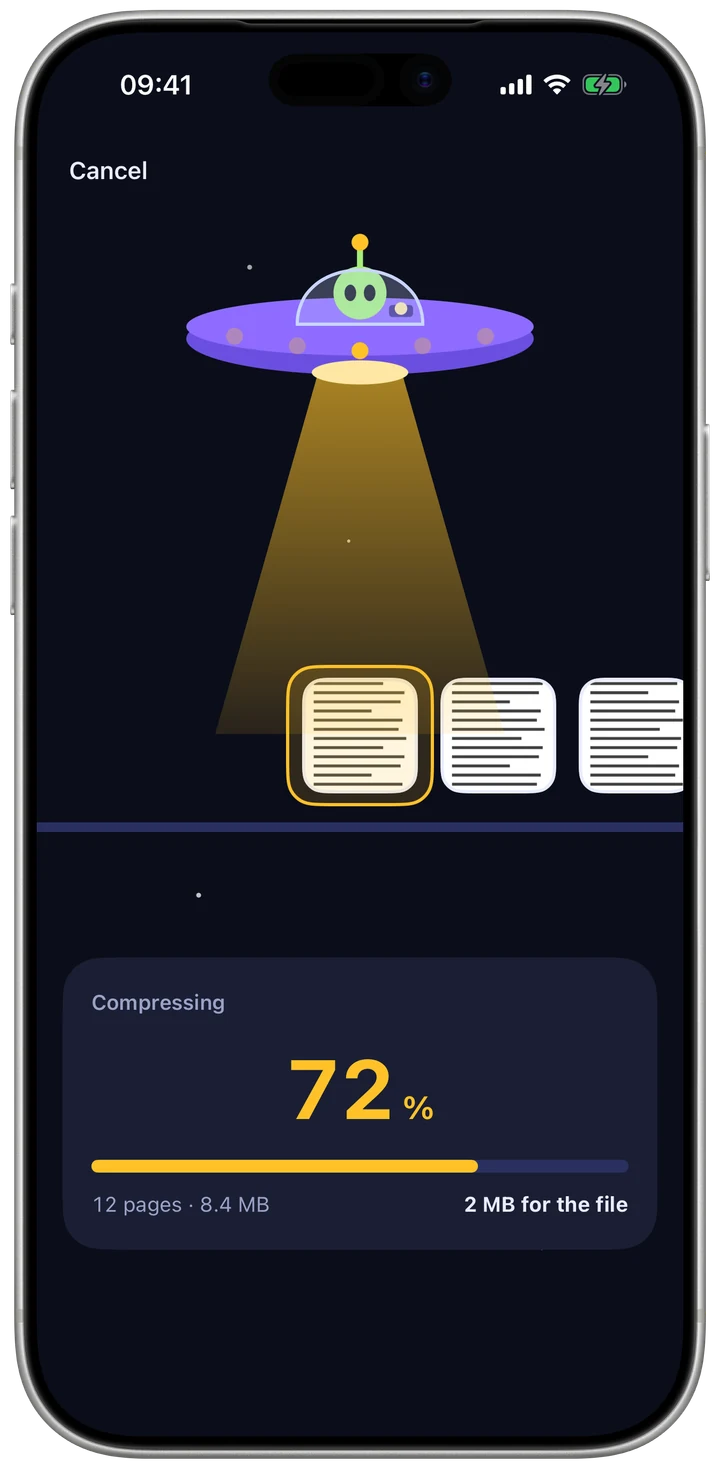
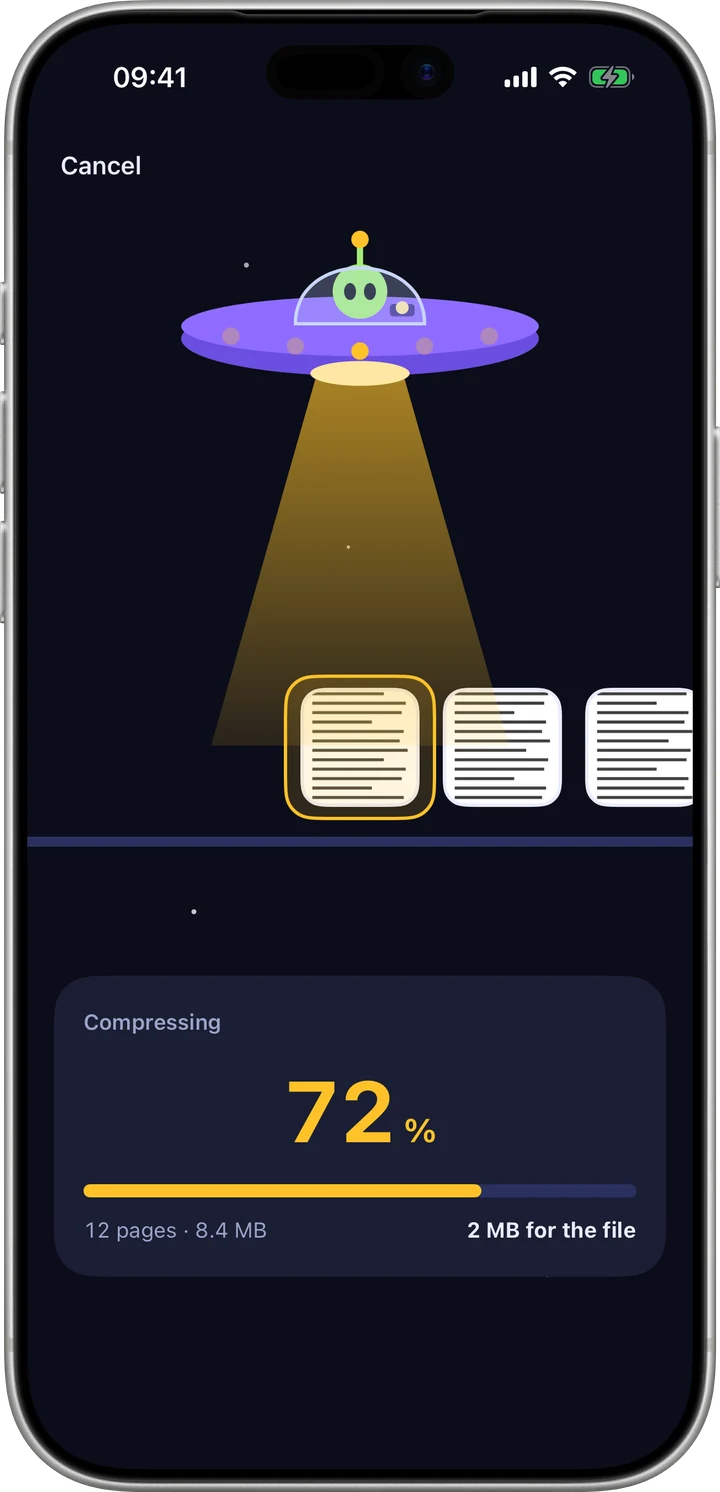
PDF phone images cropped and sized like the photo ones

diff --git a/index.html b/index.html
@@ -144,7 +144,7 @@
 <section class="section" id="pdf" aria-label="How PDFs work">
   <div class="wrap">
     <div class="row" data-in>
-      <div class="row-art"><div class="halo"></div><img class="device" src="assets/media/iphone-pdf-limit-light.webp" width="720" height="1469" alt="Shrink with a 12-page PDF chosen: the 2 MB target is selected and each size shows a readability rating" loading="lazy" decoding="async"></div>
+      <div class="row-art"><div class="halo"></div><img class="device" src="assets/media/iphone-pdf-limit-light.webp" width="720" height="1492" alt="Shrink with a 12-page PDF chosen: the 2 MB target is selected and each size shows a readability rating" loading="lazy" decoding="async"></div>
       <div class="row-copy rise">
         <span class="eyebrow">PDFs · Step 1 · Your limit</span>
         <h2 id="pdf-title">Set the limit. <em>The whole PDF fits under it.</em></h2>
@@ -154,7 +154,7 @@
     </div>
 
     <div class="row flip" data-in>
-      <div class="row-art"><div class="halo gold"></div><img class="device" src="assets/media/iphone-pdf-compressing-dark.webp" width="720" height="1469" alt="Shrink compressing a PDF: a saucer shines its beam on the pages, 72 percent done" loading="lazy" decoding="async"></div>
+      <div class="row-art"><div class="halo gold"></div><img class="device" src="assets/media/iphone-pdf-compressing-dark.webp" width="720" height="1492" alt="Shrink compressing a PDF: a saucer shines its beam on the pages, 72 percent done" loading="lazy" decoding="async"></div>
       <div class="row-copy rise">
         <span class="eyebrow">PDFs · Step 2 · The beam</span>
         <h2>12 pages. <em>One beam.</em></h2>
@@ -163,7 +163,7 @@
     </div>
 
     <div class="row" data-in>
-      <div class="row-art"><div class="halo"></div><img class="device" src="assets/media/iphone-pdf-result-light.webp" width="720" height="1469" alt="Shrink result: your PDF fits, 8.4 MB to 1.9 MB, with Preview pages, Save to Files and Share" loading="lazy" decoding="async"></div>
+      <div class="row-art"><div class="halo"></div><img class="device" src="assets/media/iphone-pdf-result-light.webp" width="720" height="1492" alt="Shrink result: your PDF fits, 8.4 MB to 1.9 MB, with Preview pages, Save to Files and Share" loading="lazy" decoding="async"></div>
       <div class="row-copy rise">
         <span class="eyebrow">PDFs · Step 3 · The proof</span>
         <h2>See exactly <em>what you saved.</em></h2>
